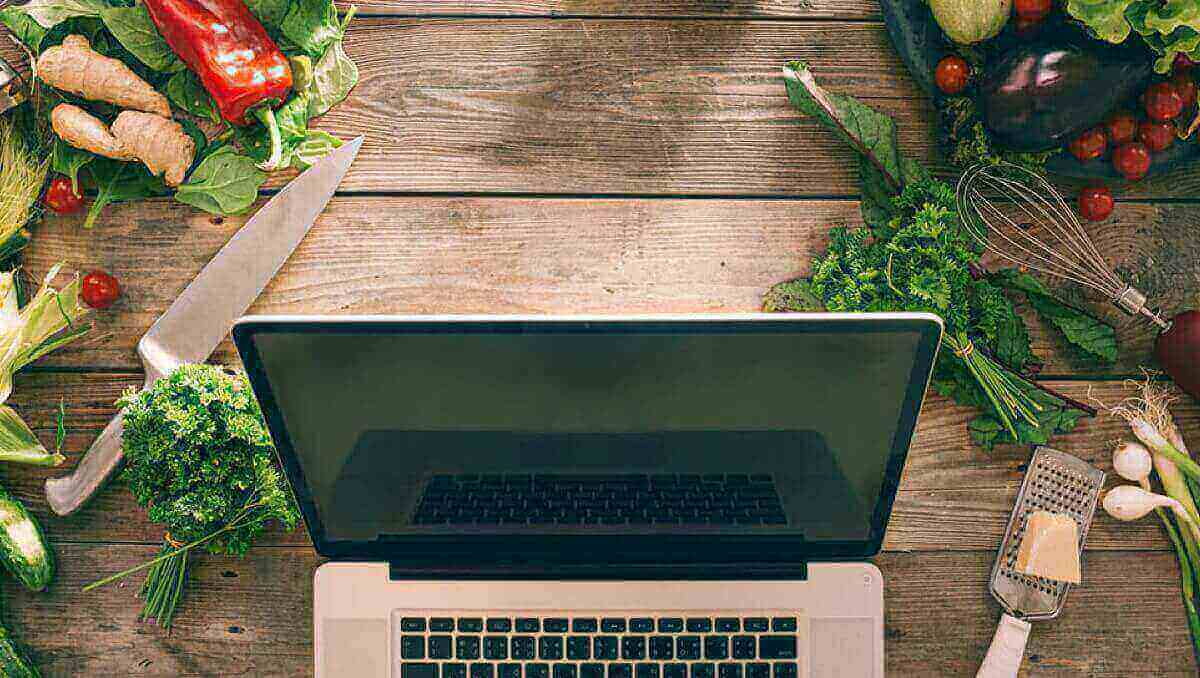
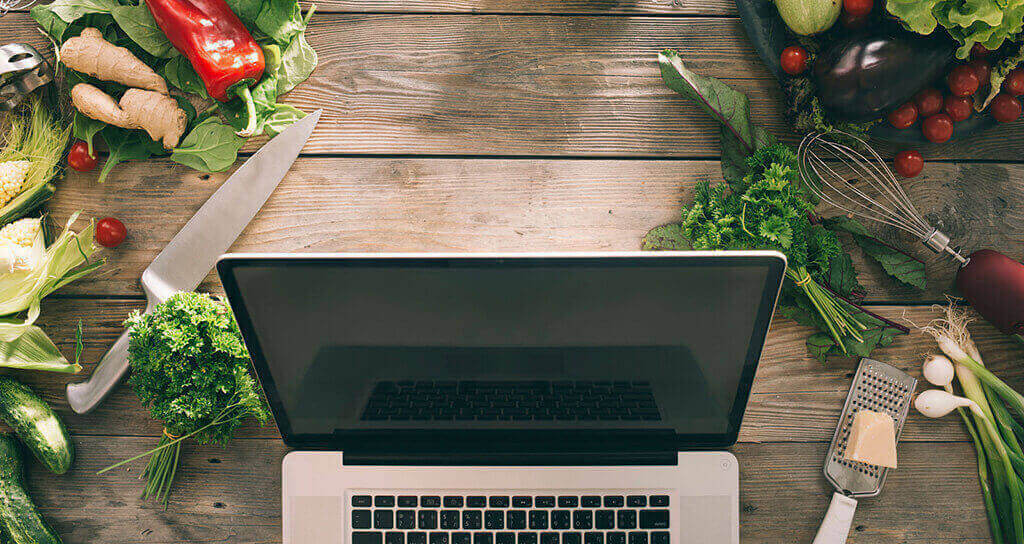
Added Fonts
Fonts and replaced hero-1 image

diff --git a/Marguerita_Web1/dev/index.html b/Marguerita_Web1/dev/index.html
@@ -7,6 +7,9 @@
   <meta http-equiv="X-UA-Compatible" content="ie=edge">
   <!-- css -->
   <link rel="stylesheet" href="https://use.fontawesome.com/releases/v5.8.1/css/all.css" integrity="sha384-50oBUHEmvpQ+1lW4y57PTFmhCaXp0ML5d60M1M7uH2+nqUivzIebhndOJK28anvf" crossorigin="anonymous">
+  <!-- Google Fonts Roboto Slab -->
+  <link href="https://fonts.googleapis.com/css?family=Roboto+Slab:400,700" rel="stylesheet">
+  <link href="https://fonts.googleapis.com/css?family=Open+Sans:400,700|Roboto+Slab:400,700" rel="stylesheet">
   <link rel="stylesheet" href="css/styles.css">
   <title>WebsiteChef</title>
 </head>

diff --git a/Marguerita_Web1/dev/css/styles.css b/Marguerita_Web1/dev/css/styles.css
@@ -342,11 +342,15 @@ ul {
 ================================ */
 h1, h2, h3, h4, h5 {
   padding: 0;
-  margin: 0; }
+  margin: 0;
+  font-family: 'Roboto Slab', serif; }
 
 p {
   padding: 0;
   margin: 0; }
+
+body {
+  font-family: 'Open Sans', sans-serif; }
 
 /* ================================
         Buttons css

diff --git a/Marguerita_Web1/dev/scss/base/_typography.scss b/Marguerita_Web1/dev/scss/base/_typography.scss
@@ -5,9 +5,14 @@
 h1,h2,h3,h4,h5{
   padding: 0;
   margin: 0;
+  font-family: 'Roboto Slab', serif;
 }
 
 p{
   padding: 0;
   margin: 0;
+}
+
+body{
+  font-family: 'Open Sans', sans-serif;
 }
